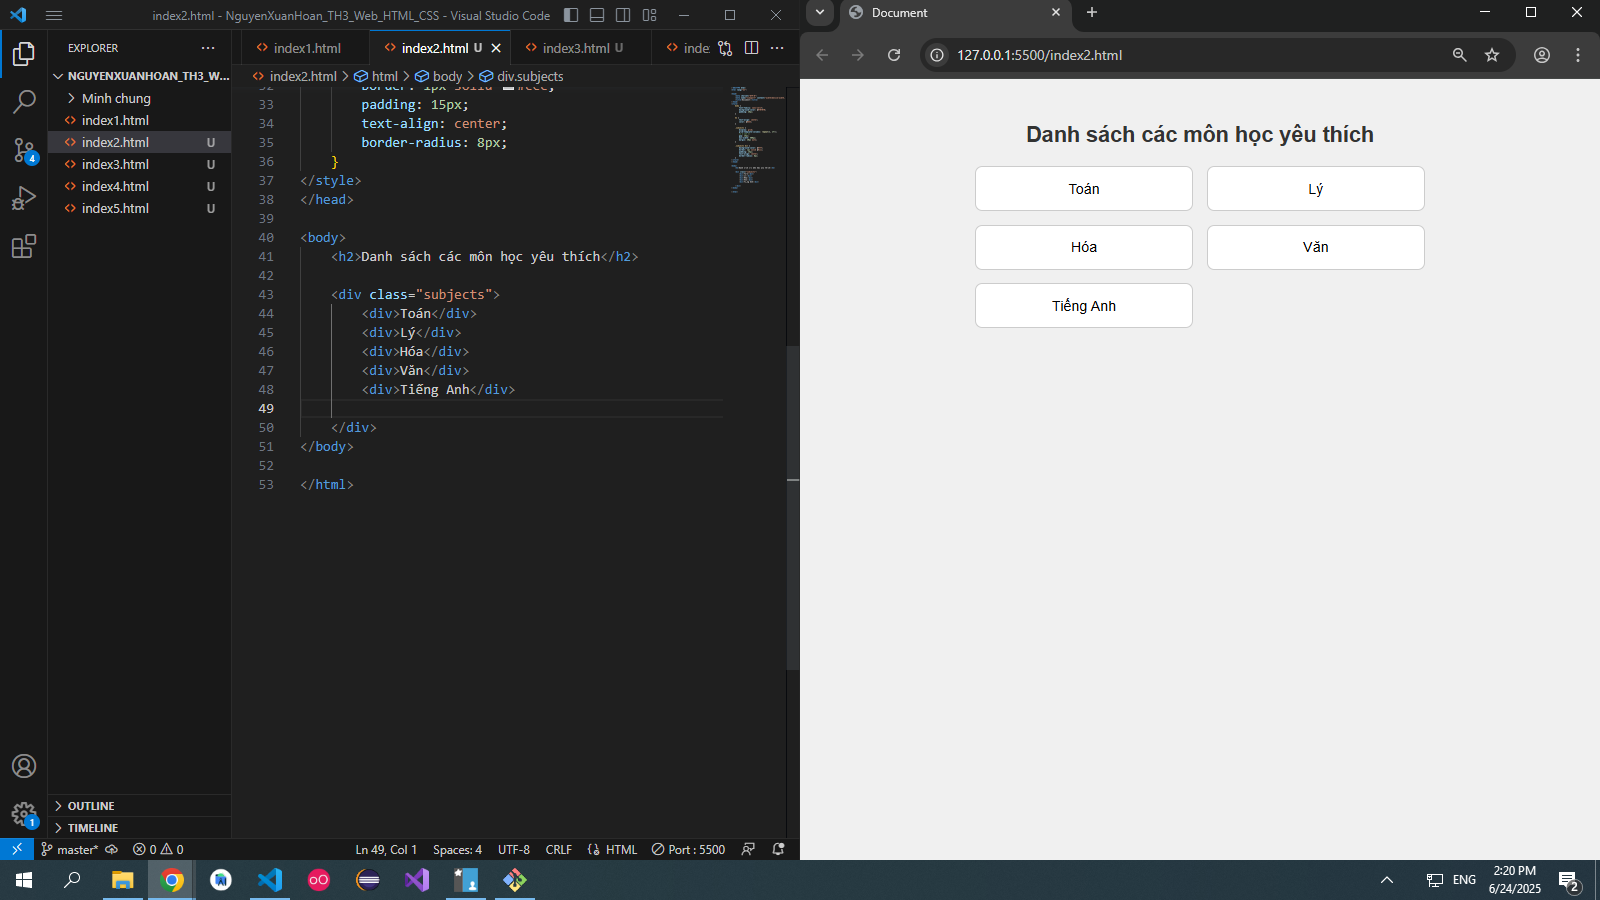
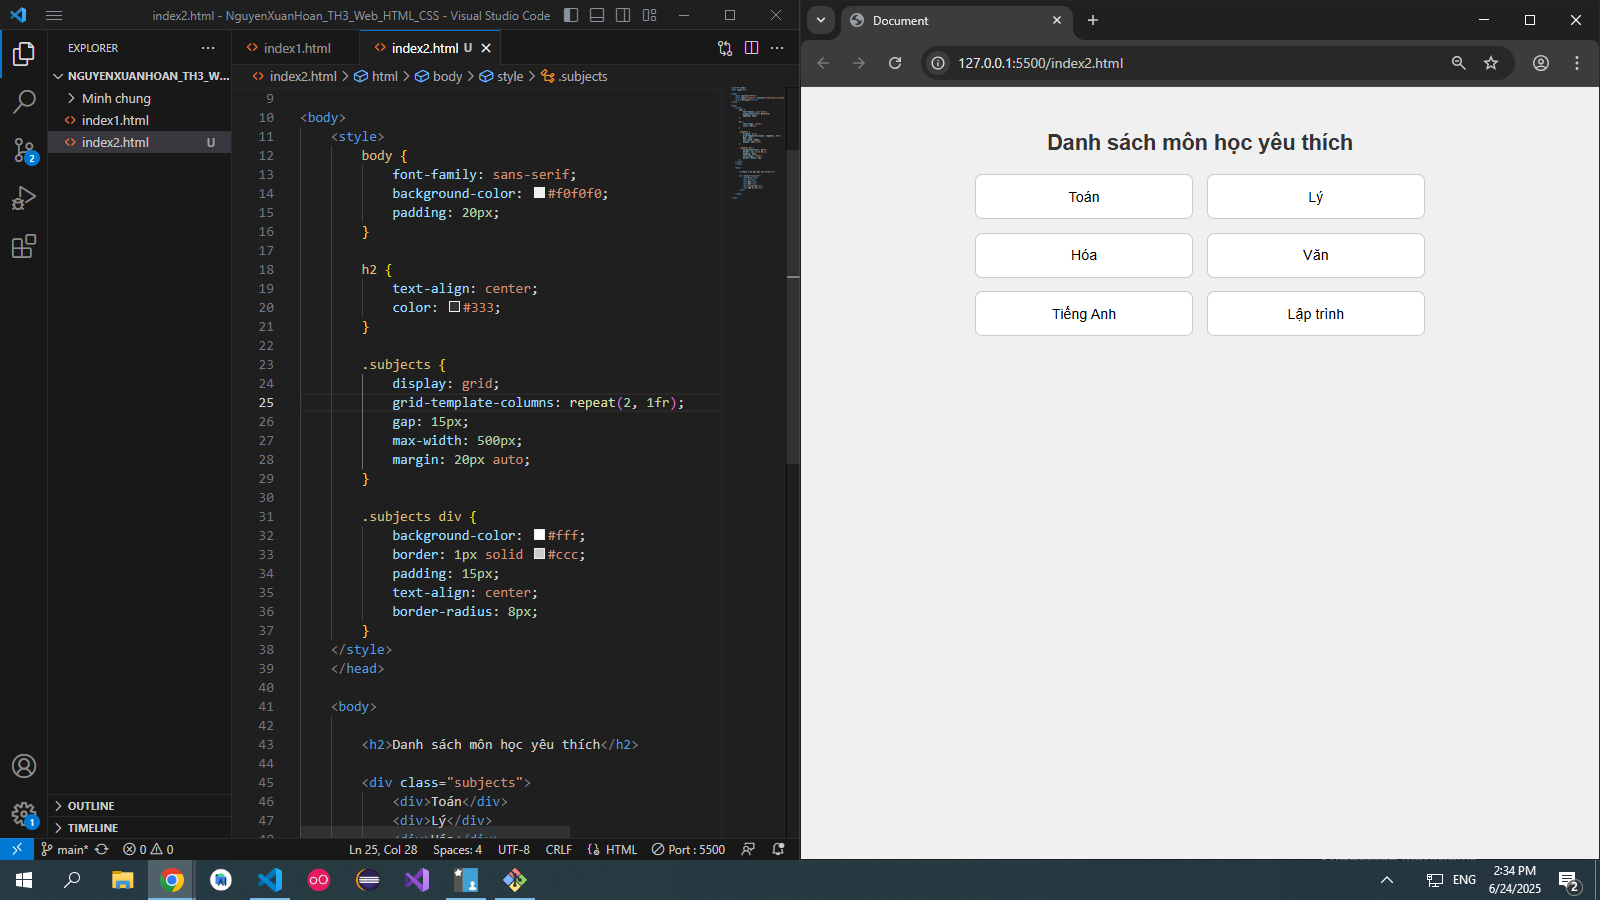
add file index2.html + Minh chung Câu 2

diff --git a/index2.html b/index2.html
@@ -1,0 +1,56 @@
+<!DOCTYPE html>
+<html lang="en">
+
+<head>
+    <meta charset="UTF-8">
+    <meta name="viewport" content="width=device-width, initial-scale=1.0">
+    <title>Document</title>
+</head>
+
+<body>
+    <style>
+        body {
+            font-family: sans-serif;
+            background-color: #f0f0f0;
+            padding: 20px;
+        }
+        
+        h2 {
+            text-align: center;
+            color: #333;
+        }
+        
+        .subjects {
+            display: grid;
+            grid-template-columns: repeat(2, 1fr);
+            gap: 15px;
+            max-width: 500px;
+            margin: 20px auto;
+        }
+        
+        .subjects div {
+            background-color: #fff;
+            border: 1px solid #ccc;
+            padding: 15px;
+            text-align: center;
+            border-radius: 8px;
+        }
+    </style>
+    </head>
+
+    <body>
+
+        <h2>Danh sách môn học yêu thích</h2>
+
+        <div class="subjects">
+            <div>Toán</div>
+            <div>Lý</div>
+            <div>Hóa</div>
+            <div>Văn</div>
+            <div>Tiếng Anh</div>
+            <div>Lập trình</div>
+        </div>
+
+    </body>
+
+</html>
